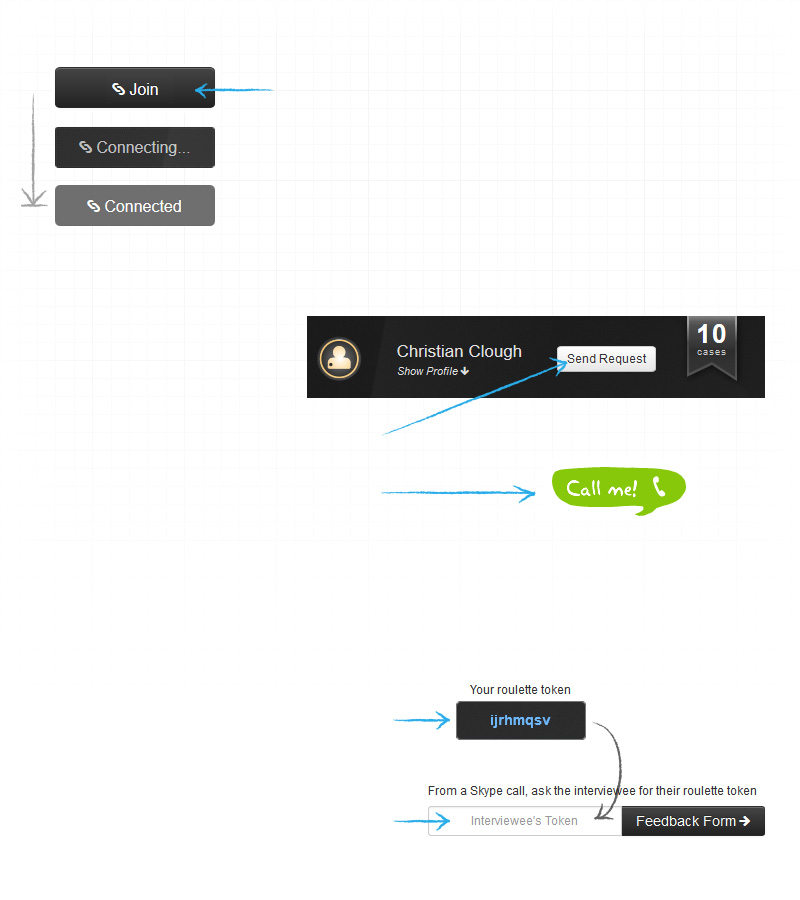
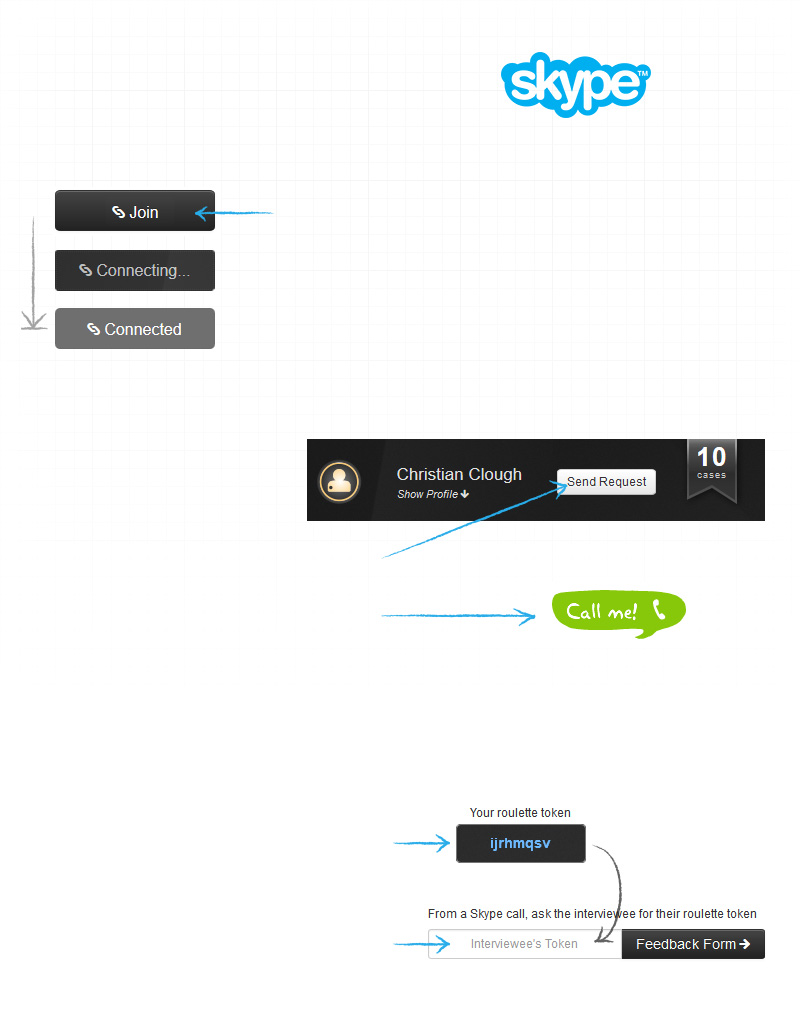
various tweaks

diff --git a/app/assets/stylesheets/app.css.scss b/app/assets/stylesheets/app.css.scss
@@ -505,16 +505,17 @@ textarea {
 
 #modal_help_page_2 { height:1100px; width:800px; padding-top:50px; position:relative; }
       .set-2a { position: absolute; top:240px; left:40px; width:300px;}
-      .set-2b { position: absolute; top:250px; left:400px; width:280px;}
+      .set-2b { position: absolute; top:260px; left:400px; width:290px;}
       #modal_help_page_2_50 { font-size:50px; }
       .set-2c { position: absolute; left: 40px; top: 460px; width: 250px;}
       .set-2d { position: absolute; left: 40px; top: 730px;  width: 220px;}
       .set-2e { position: absolute; left: 410px; top: 1000px; width: 370px;}
 
-#modal_help_page_3 { height:900px; width:800px; padding-top:50px; position:relative; }
-      .set-3a { position: absolute; top:117px; left:300px; width:450px;}
-      .set-3b { position: absolute; top:490px; left:40px; width:310px;}
-      .set-3c { position: absolute; top:730px; left:40px; width:330px;}
+#modal_help_page_3 { height:1025px; width:800px; padding-top:50px; position:relative; }
+      .set-3a { position: absolute; top:100px; left:160px; width:450px;}
+      .set-3b { position: absolute; top:230px; left:300px; width:450px;}
+      .set-3c { position: absolute; top:610px; left:40px; width:310px;}
+      .set-3d { position: absolute; top:860px; left:40px; width:330px;}
 
 #modal_help_page_4 { height:1025px; width:800px; padding-top:50px; position:relative; }
       .set-4a { position: absolute; left: 110px; top: 100px; width: 650px;}

diff --git a/app/assets/stylesheets/account.css.scss b/app/assets/stylesheets/account.css.scss
@@ -83,7 +83,11 @@ label { // why the hell won't this work in app.css?
     width:425px;
   }
   &.edit {
-    height:259px;
+    height:261px;
+    width:435px;
+  }
+  &.edit_linkedin {
+    height:300px;
     width:435px;
   }
 }

diff --git a/app/models/user.rb b/app/models/user.rb
@@ -85,7 +85,7 @@ class User < ActiveRecord::Base
   end
 
   def self.markers
-    User.completed.includes(:cases).all.map { |m| { id: m.id, level: m.level, lat: m.lat, lng: m.lng } }
+    User.completed.not_admin.includes(:cases).all.map { |m| { id: m.id, level: m.level, lat: m.lat, lng: m.lng } }
   end
 
   def level
@@ -99,10 +99,6 @@ class User < ActiveRecord::Base
     end.to_s
   end
 
-  def admin?
-    self.admin == true
-  end
-
   # Filters
   class << self
     def approved
@@ -114,15 +110,15 @@ class User < ActiveRecord::Base
     end
 
     def list_local(user)
-      user.nearbys(100).completed.order('created_at desc')
+      user.nearbys(100).completed.not_admin.order('created_at desc')
     end
 
     def list_global
-      completed.order('created_at desc')
+      completed.not_admin.order('created_at desc')
     end
 
     def list_online
-      completed.order('last_online_at desc')
+      completed.not_admin.order('last_online_at desc')
     end
 
     def list_contacts(user)
@@ -134,7 +130,15 @@ class User < ActiveRecord::Base
     end
 
     def completed
-      where("completed = true").where("admin = false")
+      where("completed = true")
+    end
+
+    def admin?
+      admin == true
+    end
+
+    def not_admin
+      where("admin = false")
     end
 
     def status_approved

diff --git a/app/controllers/static_pages_controller.rb b/app/controllers/static_pages_controller.rb
@@ -16,7 +16,7 @@ class StaticPagesController < ApplicationController
       end
     end
     if signed_in?
-      flash[:notice] = "You must be logged off to accept an invitation" if @invitation
+      flash[:notice] = "You must be signed out to accept an invitation" if @invitation
       redirect_to map_path
     else
       @login = User.new
